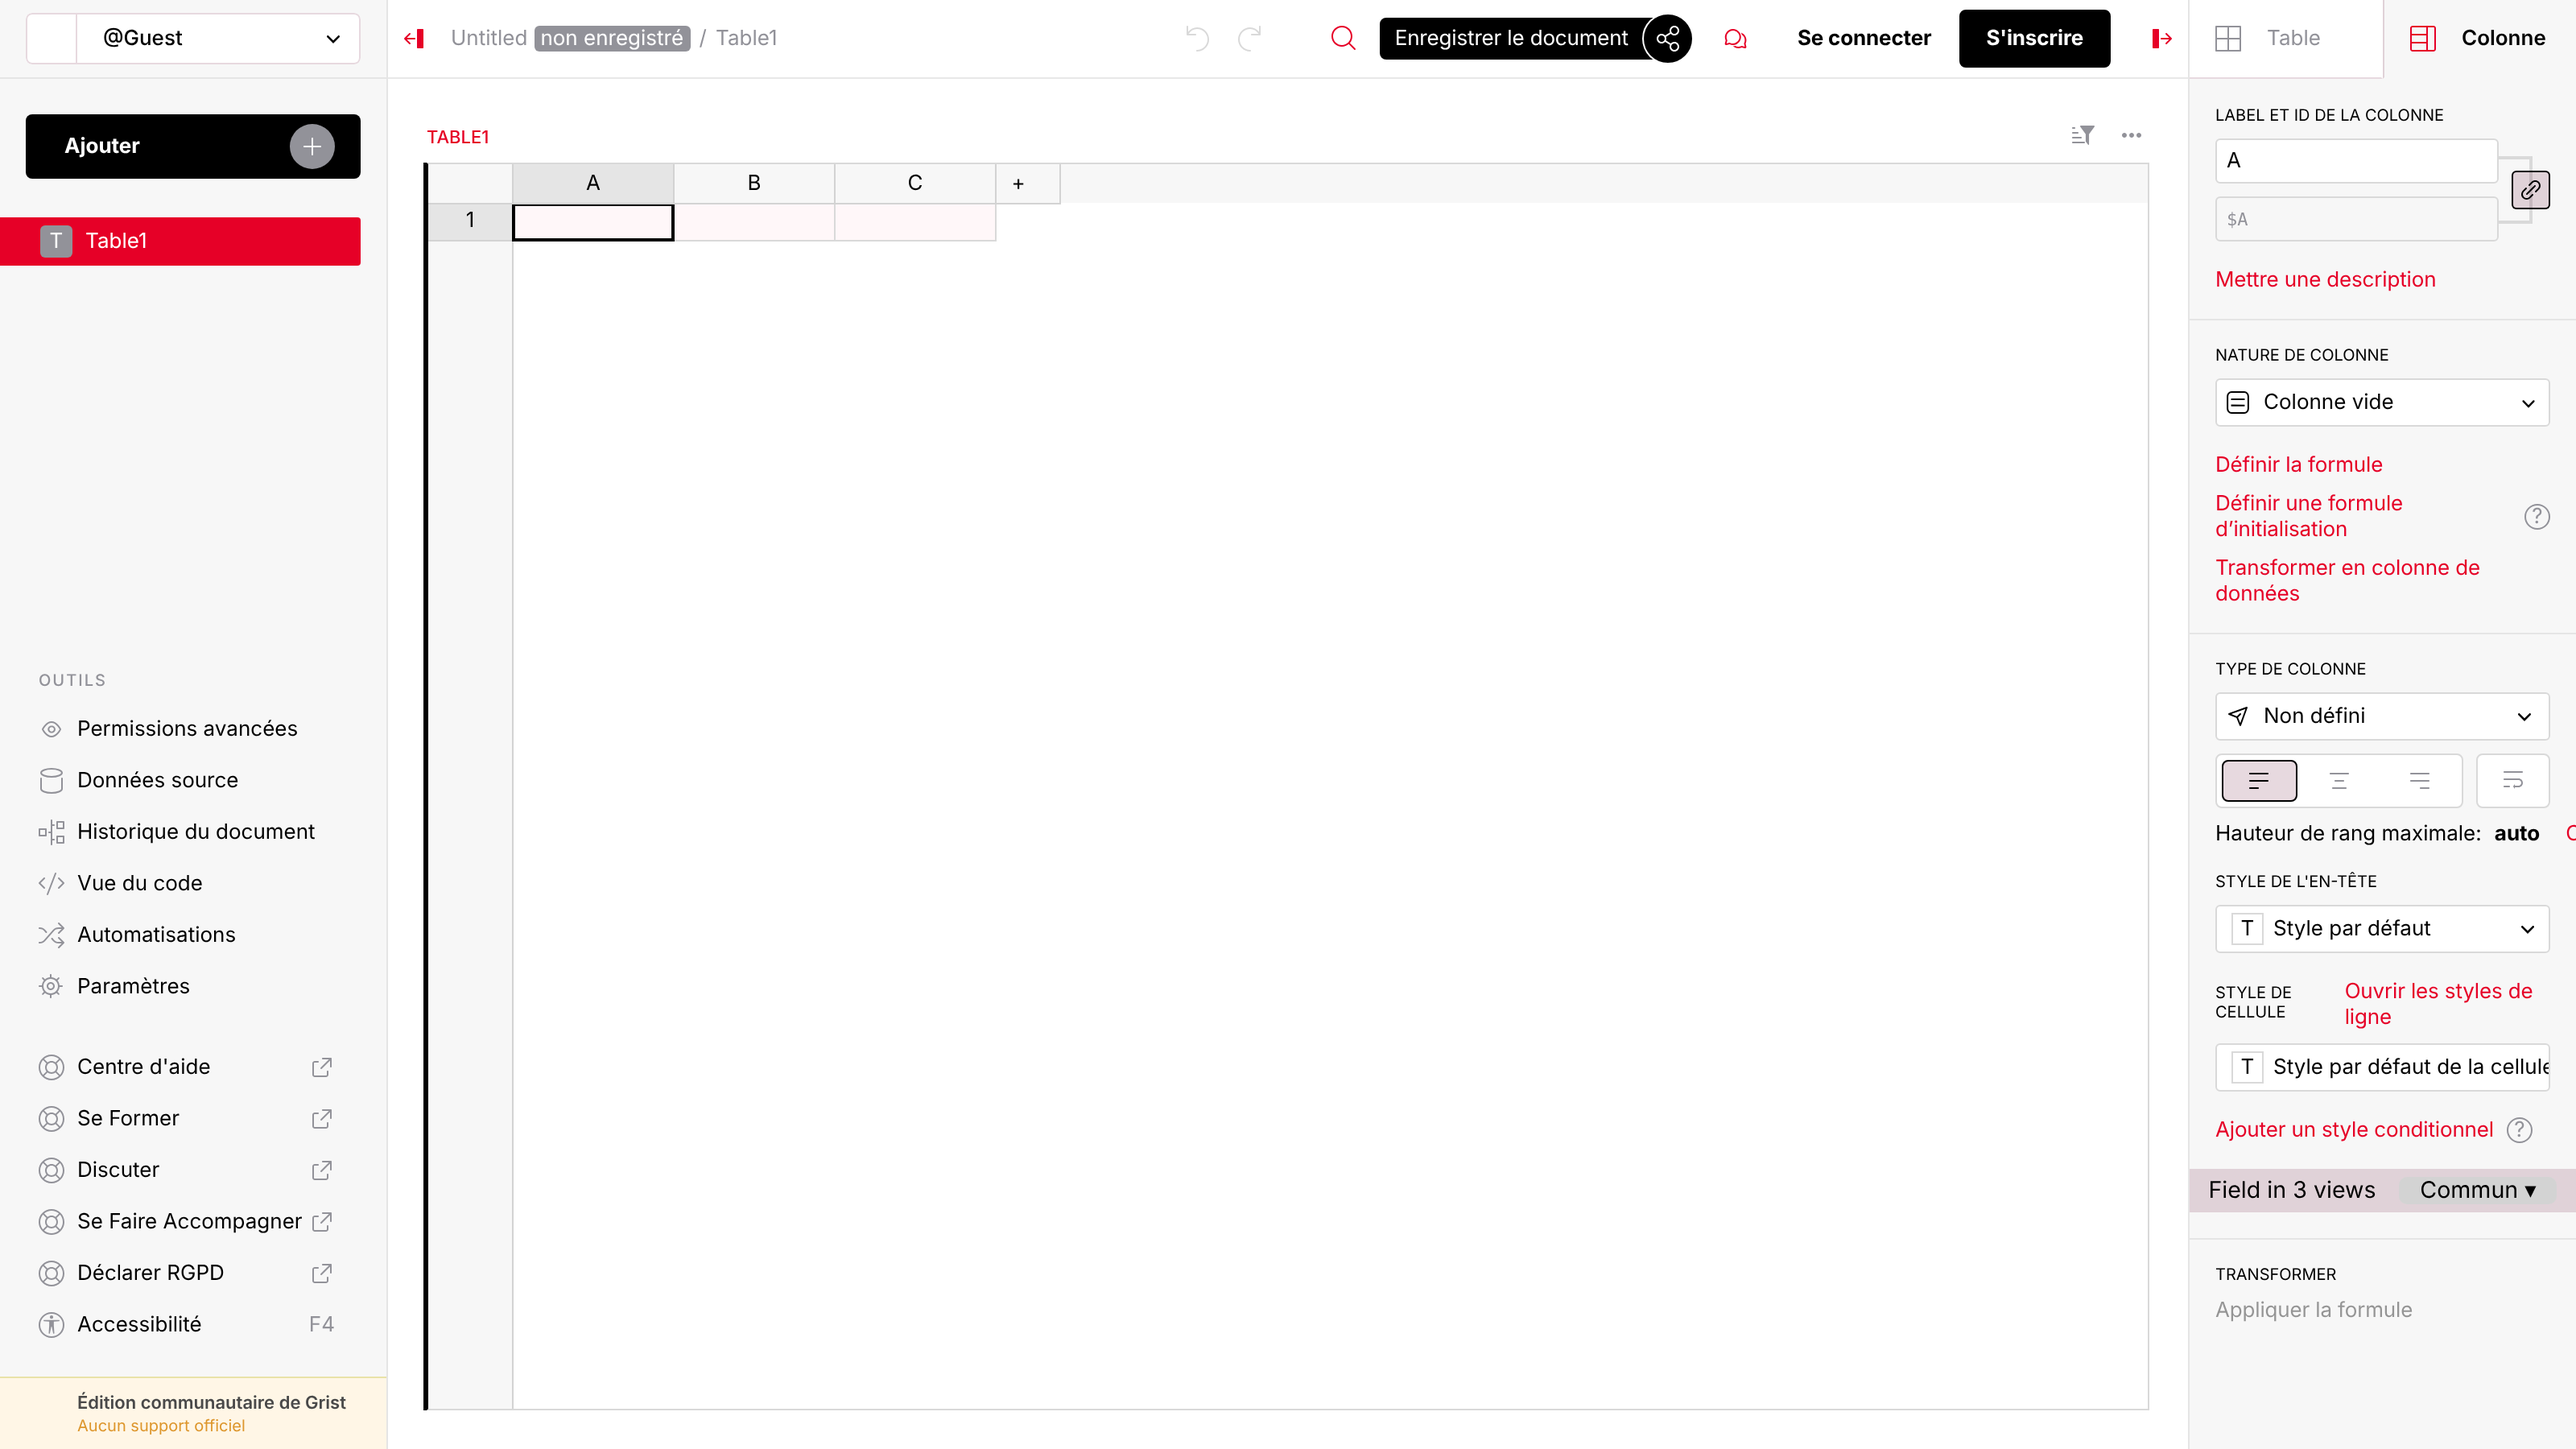
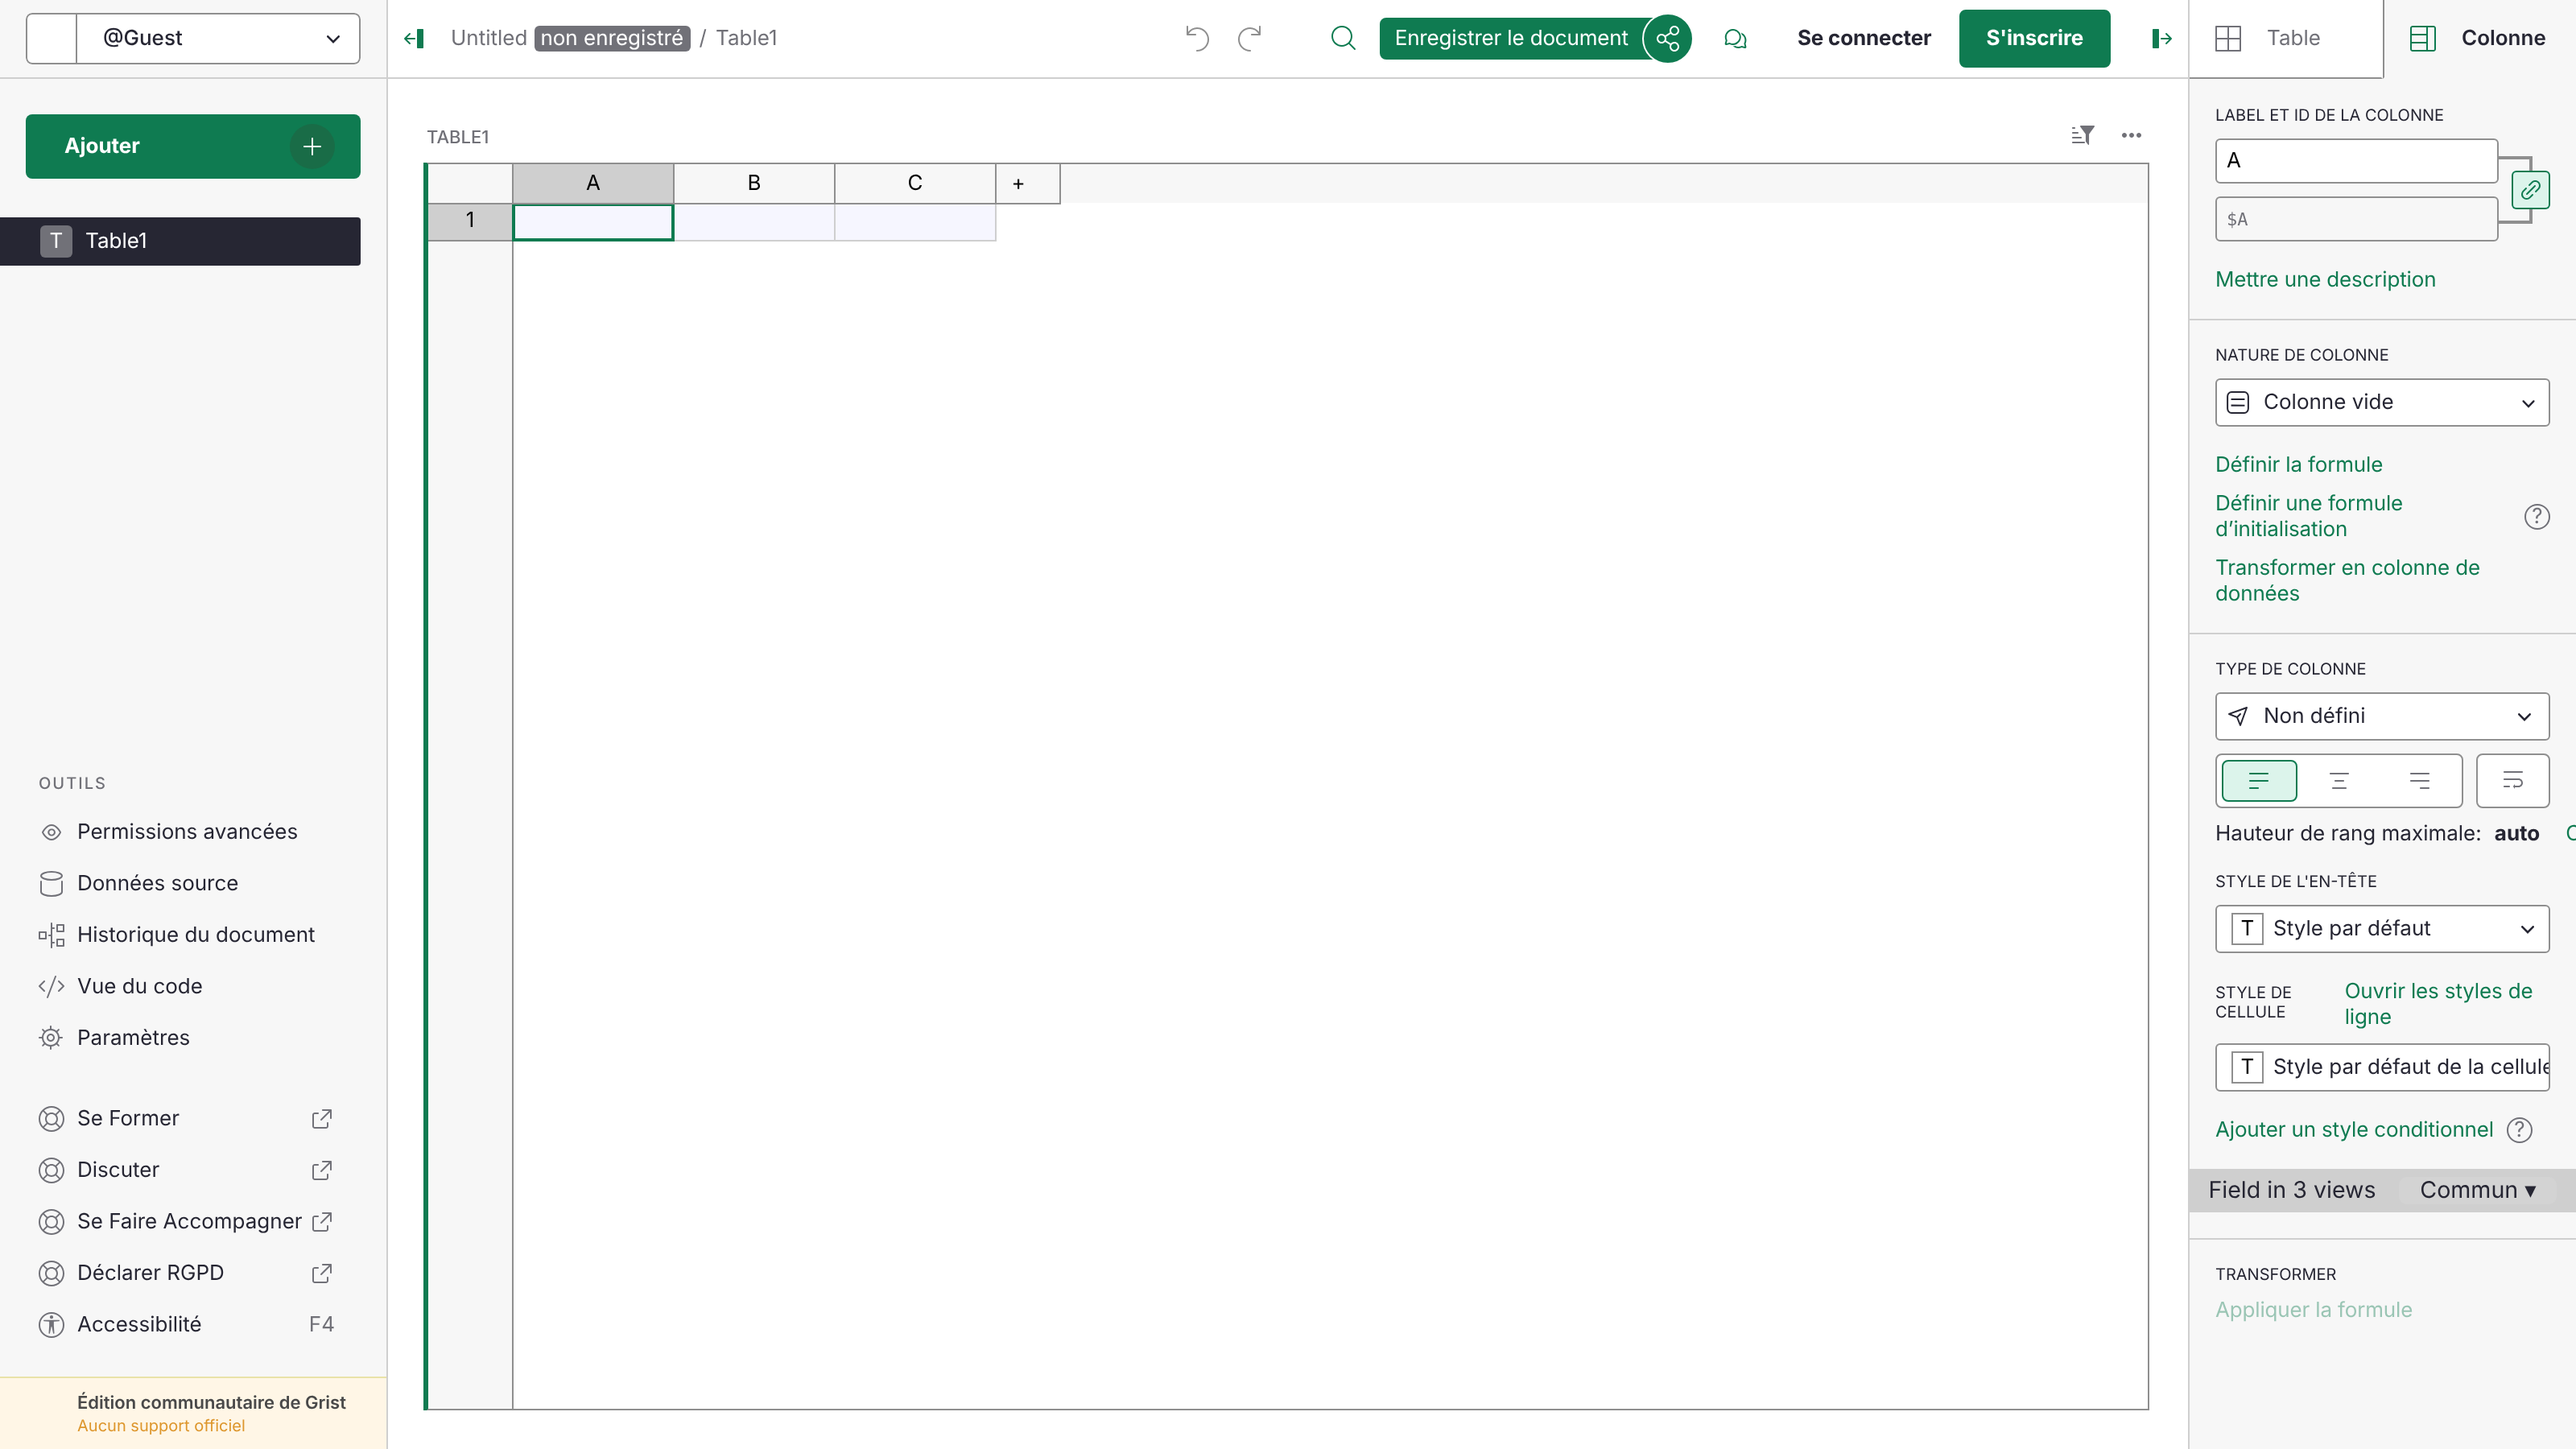
custom.css: also hide Automations in the document Tools panel
Claude-Session: https://claude.ai/code/session_01DnU9Z76kDCiaDEQqvh7PZT

diff --git a/custom/custom.css b/custom/custom.css
@@ -258,10 +258,11 @@
 
 
 /* ============================================================================
- * 6. AJOUTS : masquer la carte Webinaires et le Centre d'aide
+ * 6. AJOUTS : masquer la carte Webinaires, le Centre d'aide et Automatisations
  * ========================================================================= */
 .test-intro-webinars,               /* carte Webinaires (accueil) */
 .test-intro-help-center,            /* carte Centre d'aide (accueil) */
-div:has(> .test-left-feedback) {    /* lien Centre d'aide (menu de gauche + Outils) */
+div:has(> .test-left-feedback),     /* lien Centre d'aide (menu de gauche + Outils) */
+.test-tools-automations {           /* Automatisations (panneau Outils des documents) */
   display: none !important;
 }
